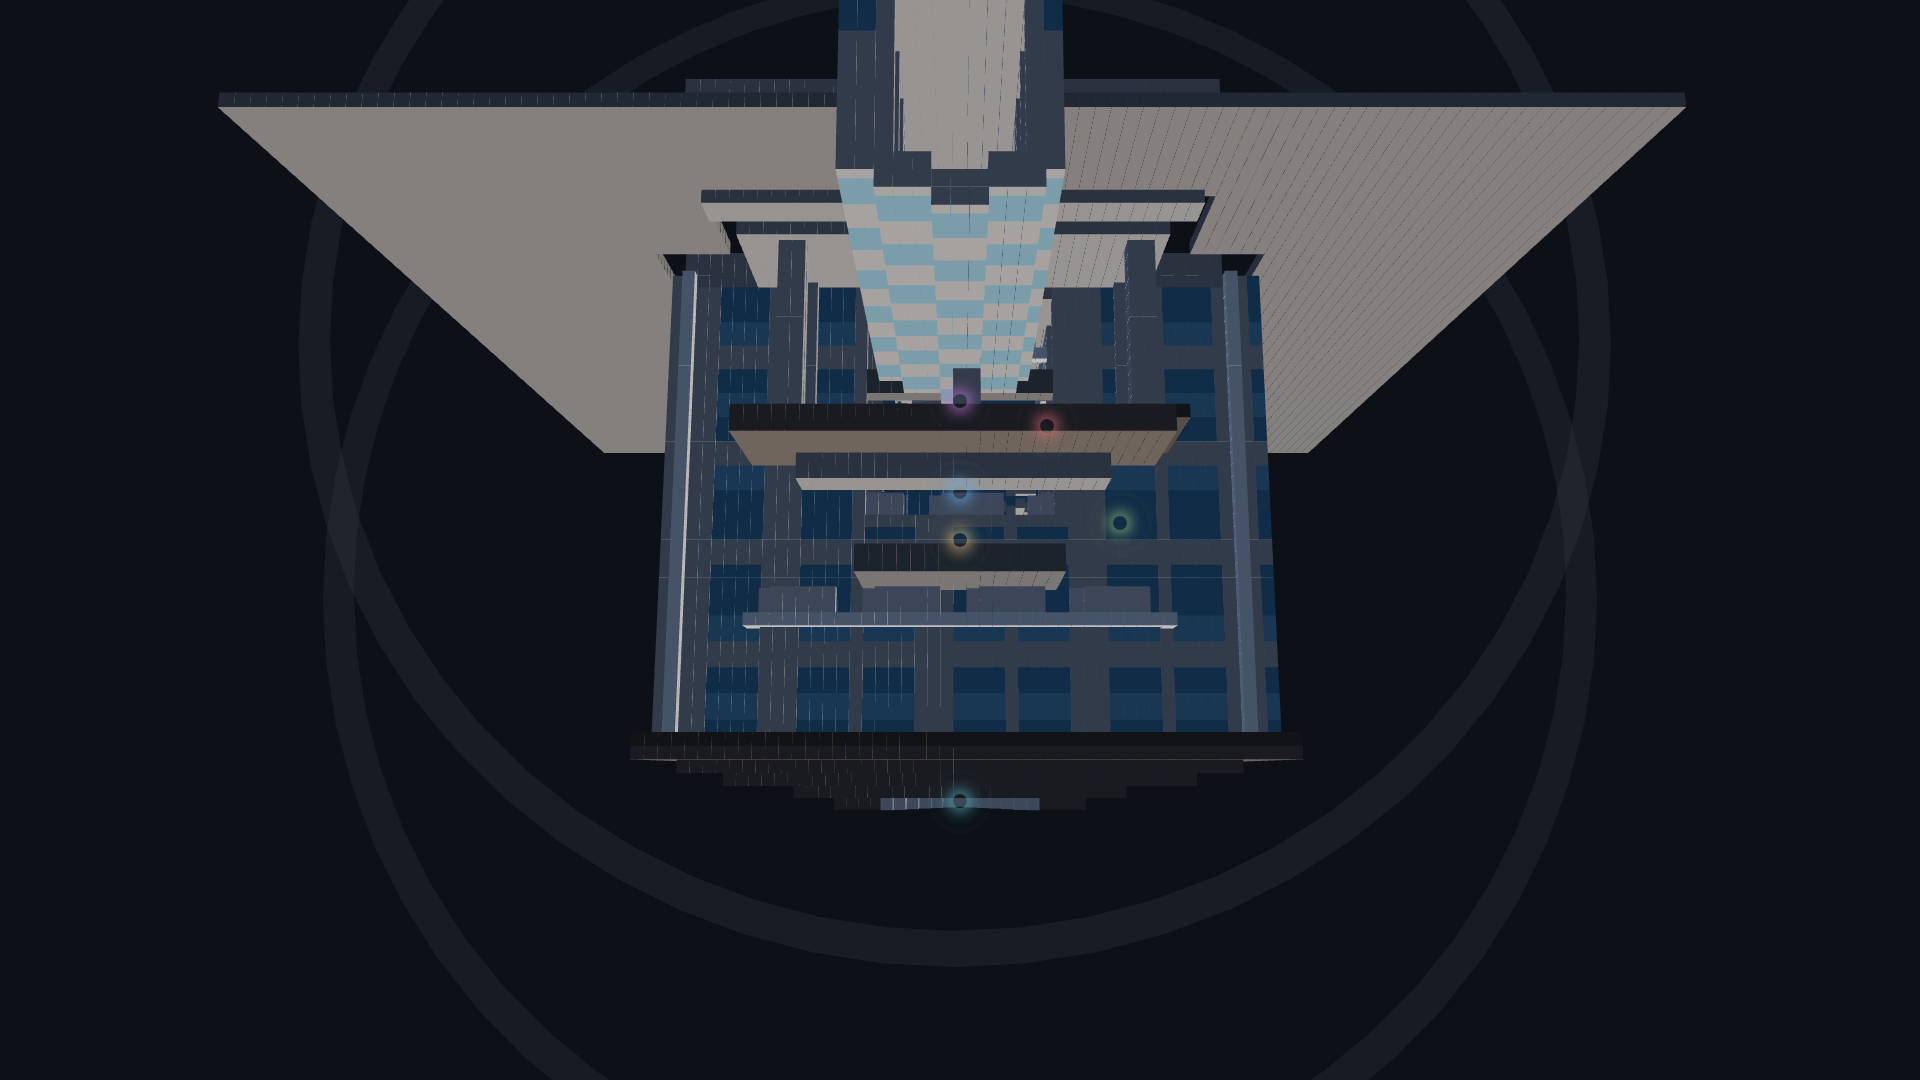
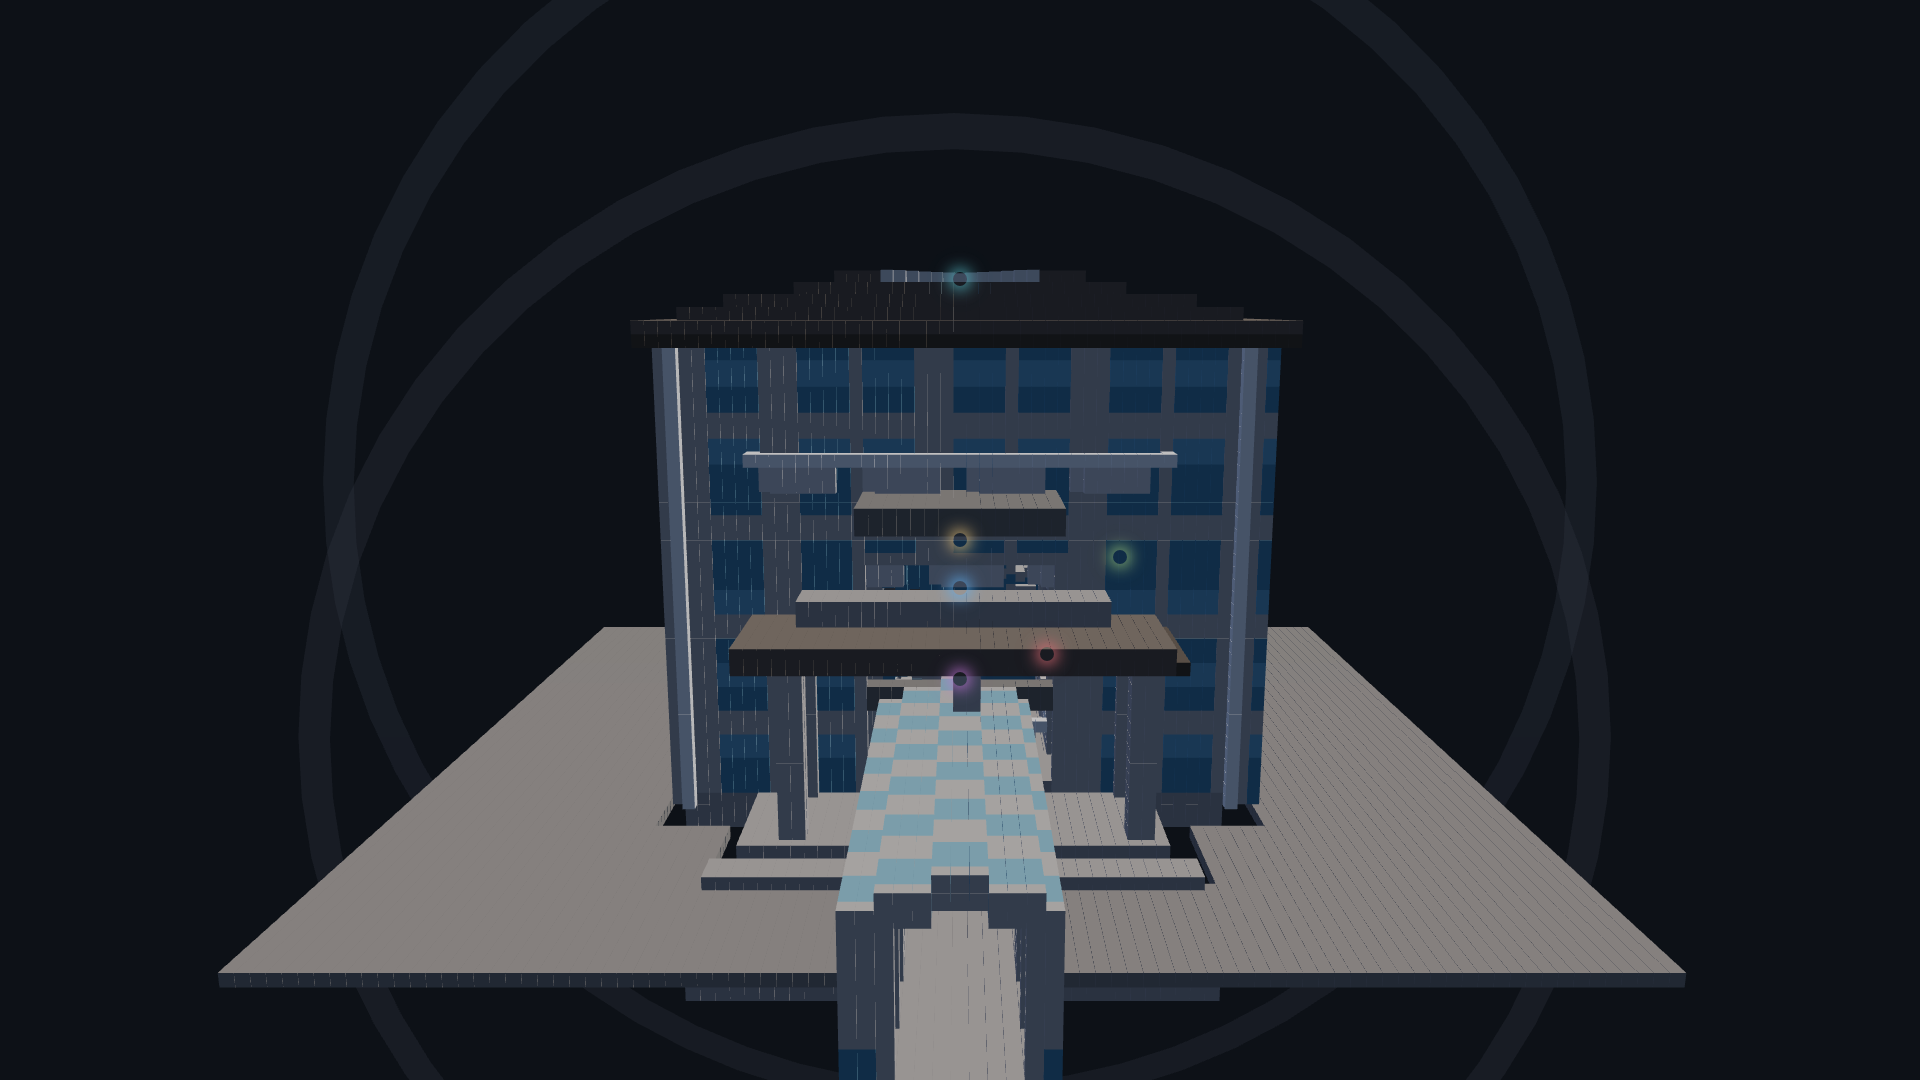
Fix Y-flip: auto-detect orientation instead of universal flip
SwiftShader Y-flip is inconsistent across camera angles.
Now auto-detects by checking if content is in top vs bottom half
and flips only when needed. All 12 screenshots verified correct.

diff --git a/scripts/screenshots.py b/scripts/screenshots.py
@@ -179,16 +179,20 @@ async def capture():
                 out_path = SCREENSHOTS_DIR / f"{name}.png"
                 await page.screenshot(path=str(out_path), full_page=False, timeout=60000)
 
-                # FIX: swiftshader WebGL Y-axis flip (most landmarks)
-                # WebGL framebuffer origin is bottom-left but browser compositor
-                # expects top-left. SwiftShader doesn't handle this correctly for
-                # most camera angles. Exception: low-angle ground-level shots
-                # (track at Z=15) render correctly without flip.
-                NO_FLIP_LANDMARKS = {'track'}
-                if landmark not in NO_FLIP_LANDMARKS:
-                    img = Image.open(out_path)
+                # FIX: swiftshader WebGL Y-axis flip (auto-detect)
+                # SwiftShader inconsistently flips WebGL output. Detect by
+                # checking if scene content is in the top half (flipped) or
+                # bottom half (correct) and flip only when needed.
+                img = Image.open(out_path)
+                arr = __import__('numpy').array(img)
+                h = arr.shape[0]
+                dark_bg = __import__('numpy').array([13, 17, 23])
+                is_content = (__import__('numpy').abs(arr.astype(float) - dark_bg).max(axis=2) > 8)
+                content_top = is_content[:h//2, :].sum()
+                content_bot = is_content[h//2:, :].sum()
+                if content_top > content_bot:
                     img = ImageOps.flip(img)
-                    img.save(out_path)
+                img.save(out_path)
 
                 size_kb = os.path.getsize(out_path) / 1024
                 print(f"  ✅ Saved: {out_path.name} ({size_kb:.0f} KB)")
